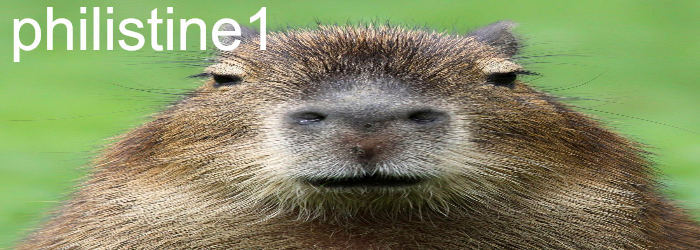
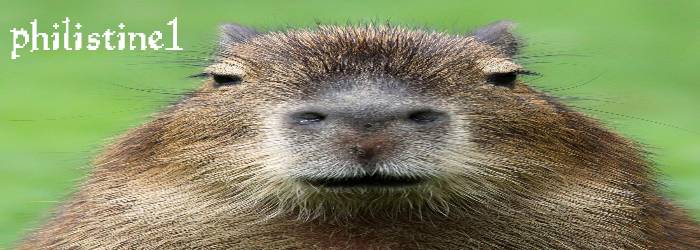
test functionality for custom fonts to work

Changed region(s): [[0.0, 0.028, 0.39, 0.252]]

diff --git a/index.js b/index.js
@@ -1,8 +1,15 @@
 import { getHiscores } from 'osrs-wrapper';
 import config from './config.json' assert { type: "json" };
-import Canvas from '@napi-rs/canvas';
+import Canvas, { GlobalFonts } from '@napi-rs/canvas';
 import { promises, existsSync, mkdirSync } from 'fs';
-import path, { join } from 'path'
+import path, { join, dirname } from 'path'
+import { fileURLToPath } from 'url';
+
+const __filename = fileURLToPath(import.meta.url);
+const __dirname = dirname(__filename);
+let x = join(__dirname, 'resources', 'RuneScape-Fonts', 'ttf', 'RuneScape-Quill.ttf')
+console.log(x)
+GlobalFonts.registerFromPath(x, 'RuneScape-Quill')
 
 async function statsSetup(isAfterEvent) {
     // make sure all the folders are setup correctly
@@ -72,7 +79,7 @@ async function createImage(rsn, team_name, stats_pre, stats_post) {
 
     // title card
     // context.font = '60px Arial';
-    context.font = '60px Arial'
+    context.font = '60px RuneScape-Quill'
     context.fillStyle = '#ffffff';
     context.fillText(rsn, 10, 50);
 
@@ -96,5 +103,5 @@ async function createImage(rsn, team_name, stats_pre, stats_post) {
     await promises.writeFile(`./images/${team_name}/${rsn}.png`, pngData);
 }
 
-// createImages();
-statsSetup(0);
+createImages();
+// statsSetup(0);
